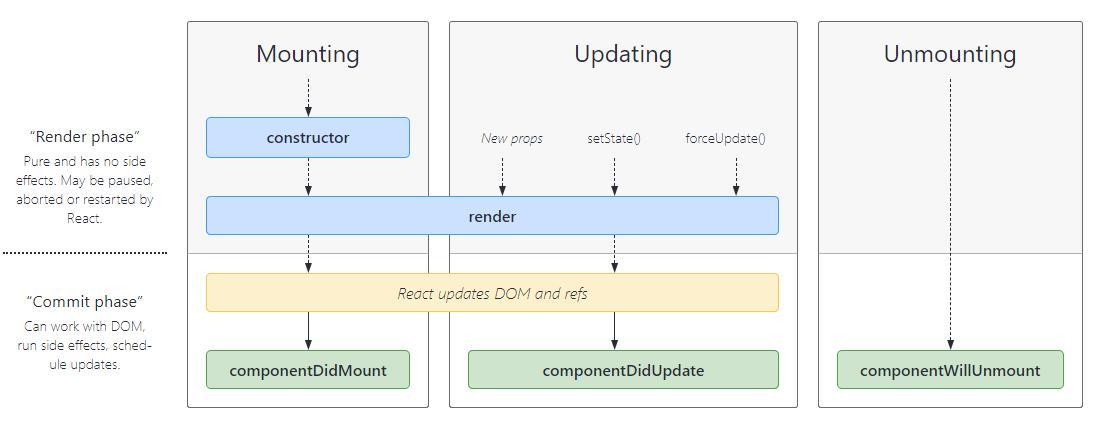
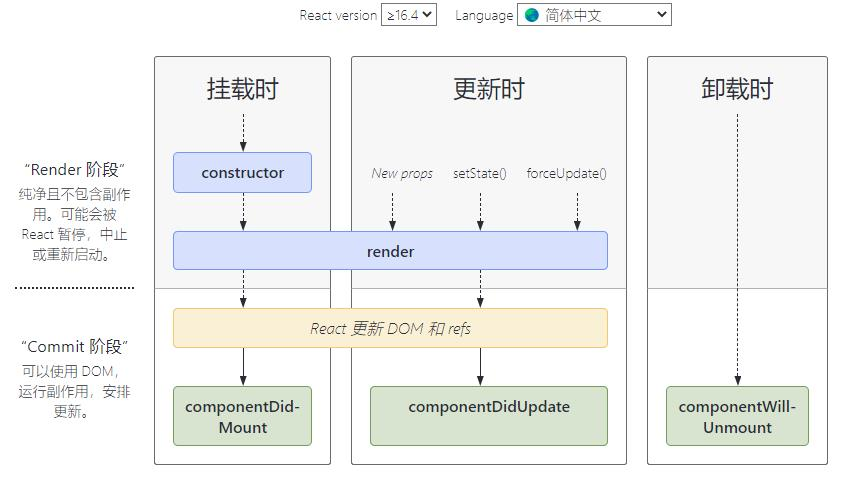
update

Changed region(s): [[0.0, 0.0922, 0.9858, 0.9527], [0.3389, 0.0, 0.8009, 0.0615]]

diff --git a/docs/framework/React/react-hook-day02.md b/docs/framework/React/react-hook-day02.md
@@ -4,7 +4,7 @@ sidebarDepth: 3
 title: useEffect
 ---
 
-## 副作用
+## useEffect
 > 什么是副作用？
 
 在纯函数中，只要和外部存在交互时就不是纯函数
@@ -23,7 +23,203 @@ title: useEffect
 只要不是在组件渲染时用到的变量，所有操作都为副作用。
 
 > 副作用包括哪些呢？
+
 - 跟外部有关的东西
 - 依赖useState声明的变量和函数
 - 依赖外部全局document/window变量（改变全局变量，计时器）
 - 依赖AJAX（全局的new XMLHTTPRequest()返回的对象） 
+
+> 在类组件中如何做副作用？通过生命周期函数(componentDidMount/componentDidUpdate)中做副作用，函数组件中的useEffect相当于将两个生命周期相结合执行的结果一样，但是会存在执行时间不同。
+
+<img :src="$withBase('/framework/React/lifecycle.jpg')" alt="lifecycle" />
+
+useEffect的执行时间：
+1. 初次渲染执行（did mount之后）
+2. 组件完成更新（did update之后）
+
+关于useEffect执行的具体时间点：
+
+具体时间点是以页面DOM加载完成为准。render执行构建React节点，由react节点构成虚拟DOM树，在componentDidUpdate后才完成真实DOM节点渲染，componentDidUpdate是在真实DOM构建之前执行。同理componentDidMount也是在真实DOM构建之前执行。而useEffect是先真实DOM构建之后执行。
+
+> 为什么useEffect函数可以在真实DOM构建以后执行？
+
+因为它是一个异步程序
+
+> useEffect做了什么？
+
+告诉React组件在渲染后执行某些操作，并保存传递的函数，并且在执行DOM更新之后调用它
+
+> 为什么在组件内调用useEffect？
+
+将useEffect放在组件内部可以让开发者在effect中直接方位state变量或props，不需要其他的API去读取它，它已经保存在函数的作用域中。
+
+> useEffect都会在每次渲染后执行吗？
+
+是的。默认情况下，在第一次渲染之后和每次更新之后都会执行。如果想要在渲染之前执行副作用，就要使用useLayoutEffect。
+
+> useEffect里面的函数是什么？
+
+闭包。闭包初次渲染拿到的是初始值，点击更新以后拿到的是当前更新后的值。
+
+```javascript
+function App() {
+  const [count, setCount] = useState(0);
+
+  console.log('render'); // 初次渲染和更新的时候都会执行
+
+  useEffect(() => {
+    // 副作用
+    console.log('useEffect'); 
+  })
+}
+```
+
+## 存在返回值的问题
+
+> useEffect的清理函数什么时候执行？
+
+1. 在每次运行副作用函数之前执行
+2. 在组件销毁的时候也会执行
+
+```javascript
+function App() {
+  const [count, setCount] = useState(0);
+  // 执行1
+  // 执行3
+  console.log('render');
+
+  useEffect(() => {
+    // 执行2
+    // 执行5
+    console.log('useEffect')
+    return () => {
+        //执行4
+      console.log('清理函数');
+    }
+  })
+
+  return (
+    <div>
+      <p>{count}</p>
+      <button onClick={() => setCount(count + 1)}>Click</button>
+    </div>
+  )
+}
+/**
+ * 存在清理函数时：
+ * render + useEffect
+ * 
+ * 点击Click
+ * render+ 清理函数 + useEffect
+ * /
+```
+每一次副作用函数都是不同的唯一的函数。怎么清理timer？在清理函数中执行clearInterval(timer)。每次清理都是上一次的timer。
+```javascript
+function App() {
+  const [count, setCount] = useState(0);
+  console.log('render')
+
+  useEffect(() => {
+    let timer = setInterval(() => {
+      setCount(count + 1)
+    }, 1000)
+    console.log('useEffect')
+
+    return () => {
+      console.log('clear Effect');
+      clearInterval(timer); // 就是外面定义的timer，上一次的timer
+    }
+  })
+
+  return ( /* ... */ )
+}
+```
+
+> 引起的问题：每次都会清除一个计时器，再生成一个计时器，所以又多个计时器。因此我们希望只有一个计时器。也就是希望只在初次渲染（did mount的时候）执行，不希望在did update的时候执行。
+
+添加依赖项空数组: []。
+
+> 此时计时器在执行，但是页面上显示的count一直显示1，不会增加，为什么？
+
+因为此时拿到的count一直是闭包的count。点击以后count为1。
+
+解决方法：
+
+- 第一种使用异步的方式更新count。
+```javascript
+function App() {
+  const [count, setCount] = useState(0);
+  console.log('render')
+
+  useEffect(() => {
+    console.log('开启计时器');
+
+    let timer = setInterval(() => {
+      console.log('进入计时器');
+      setCount(count => count + 1); // 此时的setCount中的count就是参数count
+    }, 1000)
+
+    return () => {
+      // 依赖项为空[]时，这里不会执行，因为useEffect只在didMount的时候执行
+      console.log('清除计时器');
+      clearInterval(timer)
+    }
+  }, [])
+
+  return (/*...*/)
+}
+/**
+ * render + 开启计时器 + 进入计时器
+ * render + 进入计时器
+*/
+```
+- 第二种修改添加依赖项\[count]
+```javascript
+function App() {
+  const [count, setCount] = useState(0);
+  console.log('render')
+
+  useEffect(() => {
+    console.log('开启计时器');
+
+    let timer = setInterval(() => {
+      console.log('进入计时器');
+      setCount(count + 1); 
+    }, 1000)
+
+    return () => {
+      console.log('清除计时器');
+      clearInterval(timer)
+    }
+  }, [count])
+
+  return (/*...*/)
+}
+/**
+ * render + 开启计时器 + 进入计时器
+ * render + 清除计时器 + 开启计时器 + 进入计时器
+ * render + 清除计时器 + 开启计时器 + 进入计时器
+*/
+```
+
+## 依赖项
+useEffect的第二个参数：
+1. 指定当前副作用effect函数，所需要的依赖项。
+2. 依赖项是空数组，effect只是在初次渲染和卸载的时候执行，更新的时候不执行。
+3. 有依赖项，依赖项不变，useEffect不会执行。只有当依赖项不一致的时候才会重新执行。
+
+## 总结
+1. useEffect的执行时机。
+2. 返回值清理函数的执行时机
+3. 上一次state和最新state的获取
+4. 依赖项
+
+
+## 关注点分离
+两个不相关的副作用写在一起不合理。将关注点分离：
+1. 拆分副作用。只需要保证副作用的顺序，就会按顺序执行
+2. 通过四定义Hook来实现。
+
+
+
+

diff --git a/docs/framework/Redux/redux-basic-day01.md b/docs/framework/Redux/redux-basic-day01.md
@@ -1,0 +1,36 @@
+---
+autoGroup-1: Redux
+sidebarDepth: 3
+title: 基础知识
+---
+
+## 初识Redux
+Redux是一个独立专门用于做状态管理的JS库（不是react插件库），它可以用在react，angular，vue等项目中，但基本与react配合使用。
+
+作用：集中式管理react应用中多个组件共享的状态。
+
+## 工作流程
+
+### 1. 三大核心概念
+#### 1. Store对象    
+保存数据的地方，你可以把它看成一个容器，整个应用只能是一个Store。Redux提供createStore这个函数，用来生成Store。
+
+- createStore函数接收另一个函数reducer作为参数，返回一个新生成的Store对象
+- store.dispatch()接收一个action对象作为参数，将它发送出去。
+
+#### 2. Action
+Action creators创建一个action对象。
+
+描述当前发生的事情。改变state唯一的方法，就是使用action它会运送数据到store。其中type属性是必须的，表示Action名称（事情的名称），其他属性可以自有设置。
+
+#### 3. Reducer函数
+它是一个纯函数，也就是说，只要同样的输入，必定得到同样的输出。
+
+Store收到action以后，必须给出一个新的State，这样View才会发生改变，这种State的计算过程就叫做Reducer。
+
+store自动调用Reducer，并且传入连个参数：当前State和收到action，返回新的state.
+
+## 安装
+```javascript
+npm i -S redux
+```

diff --git a/docs/framework/Redux/README.md b/docs/framework/Redux/README.md
@@ -1,0 +1,4 @@
+---
+title: 简介
+---
+# Redux
